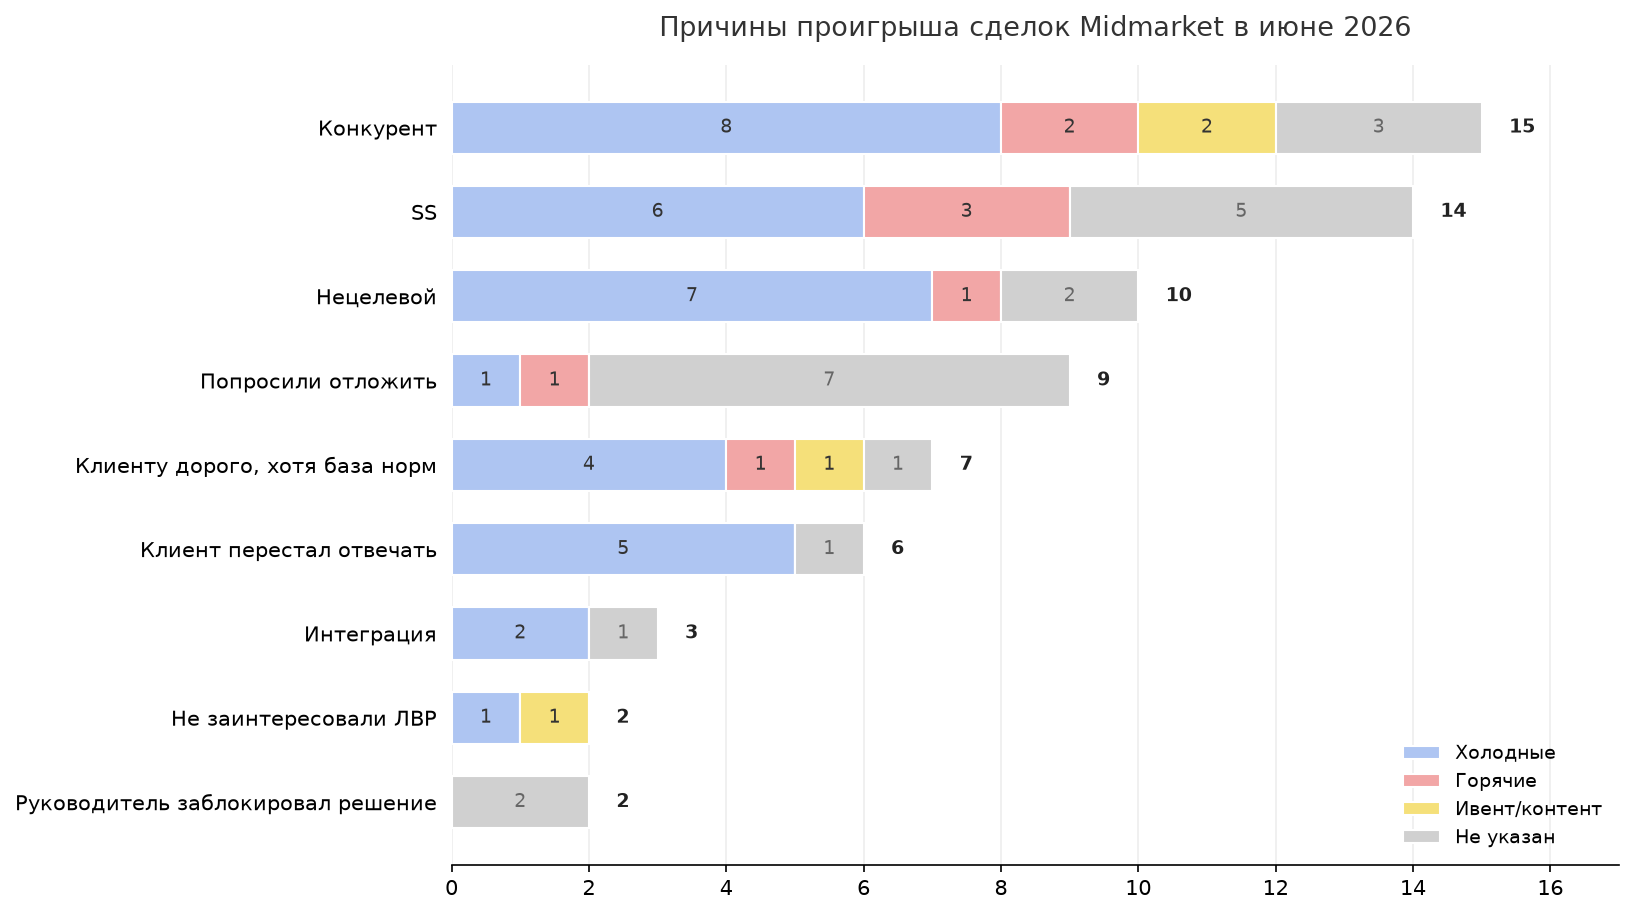
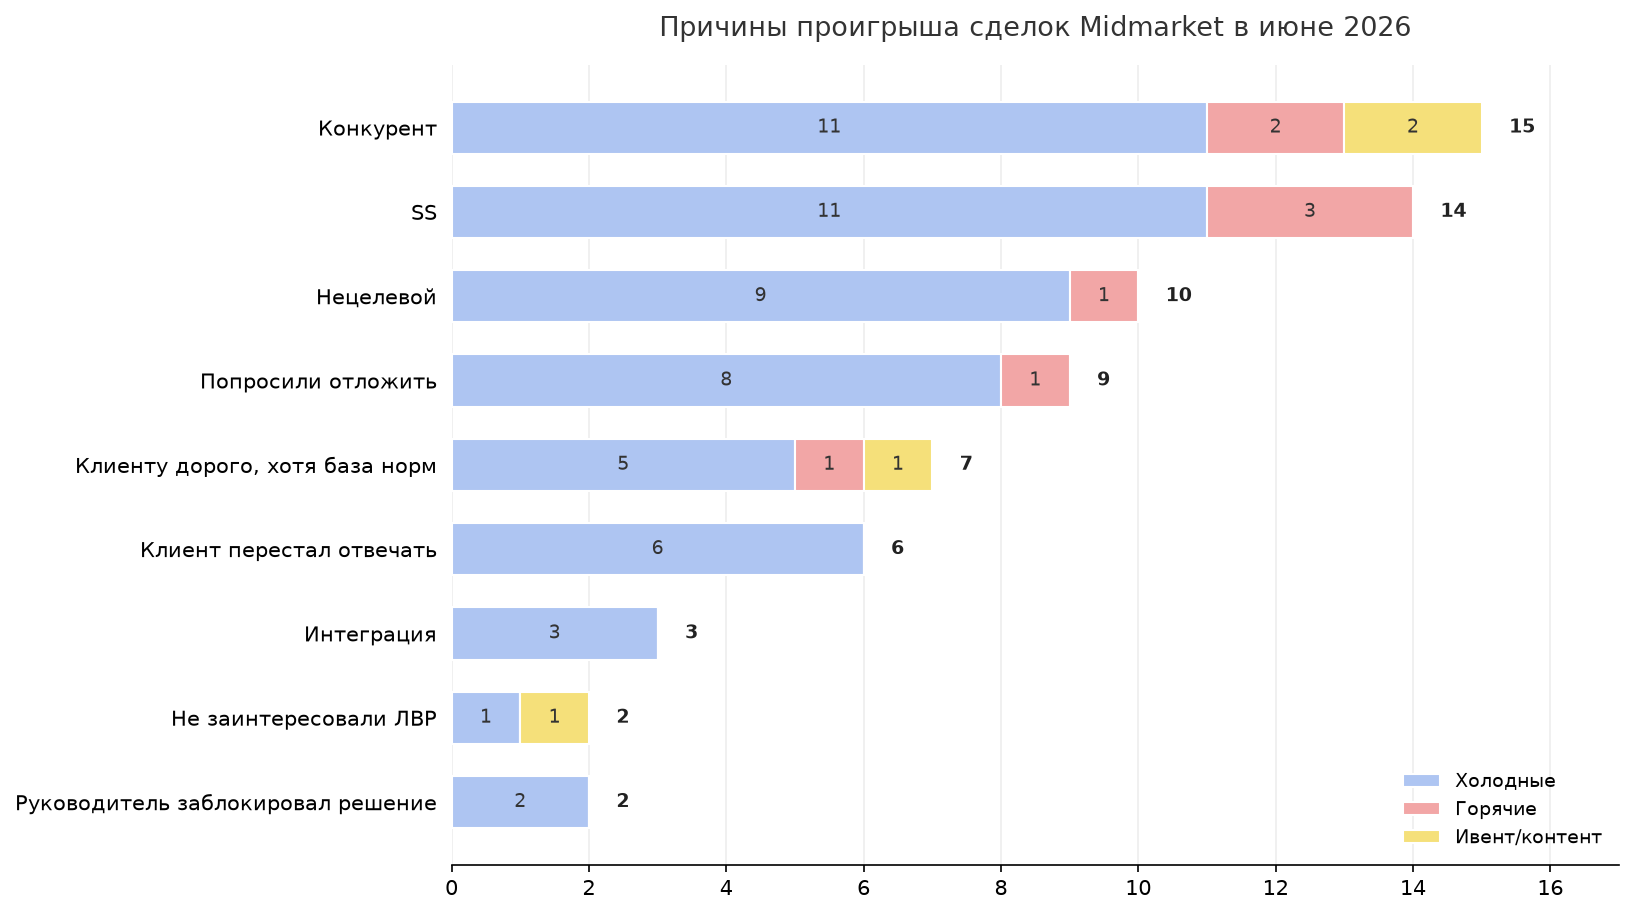
Digest chart: empty source -> Холодные (owner rule); 3 source buckets
- make_digest_chart.py: default unmapped/empty 'Источник продажи' to Холодные
- pipedrive_reference: document source-bucket mapping for the digest chart

https://claude.ai/code/session_01LbKBMorYebTJqJ9qvnVc6G

diff --git a/scripts/make_digest_chart.py b/scripts/make_digest_chart.py
@@ -10,15 +10,15 @@ SRC={56:"Холодные",58:"Горячие",63:"Ивент/контент",39
 srcmap={}
 for d in raw:
     sid=(d.get("custom_fields") or {}).get("af70f9391eeba6e8849e5de4bf671c05dfa80a33")
-    srcmap[d["id"]]=SRC.get(sid,"Не указан")
+    srcmap[d["id"]]=SRC.get(sid,"Холодные")  # источник не указан -> Холодные
 
 import collections
 ct=collections.defaultdict(lambda: collections.Counter())
 for k,v in cls.items():
     ct[v["real_reason"]][srcmap[int(k)]]+=1
 
-order=["Холодные","Горячие","Ивент/контент","Не указан"]
-colors={"Холодные":"#aec5f2","Горячие":"#f2a6a6","Ивент/контент":"#f5e07a","Не указан":"#d0d0d0"}
+order=["Холодные","Горячие","Ивент/контент"]
+colors={"Холодные":"#aec5f2","Горячие":"#f2a6a6","Ивент/контент":"#f5e07a"}
 # sort categories by total asc (barh bottom-up) so biggest on top
 cats=sorted(ct.keys(), key=lambda c: sum(ct[c].values()))
 labels={"Клиенту дорого, хотя база норм":"Клиенту дорого, хотя база норм",

diff --git a/docs/pipedrive_reference.md b/docs/pipedrive_reference.md
@@ -65,6 +65,10 @@
 | `2bd308ae3877abeba0d9d8f30ceab9bbba646963` | Уровень сделки (enum) |
 | `af70f9391eeba6e8849e5de4bf671c05dfa80a33` | Источник продажи (enum) |
 
+**Источник продажи для дайджест-графика** (`af70f939…`): 56→Холодные, 58→Горячие
+(«Заявка»), 63/3977→Ивент/контент. Все остальные значения и **пустое поле → Холодные**
+(правило заказчика). Три корзины графика: Холодные / Горячие / Ивент-контент.
+
 Верхний уровень сделки также даёт: `id`, `title`, `stage_id`, `pipeline_id`,
 `status`, `lost_time`, `value`, `org_id`, `person_id`.
 
